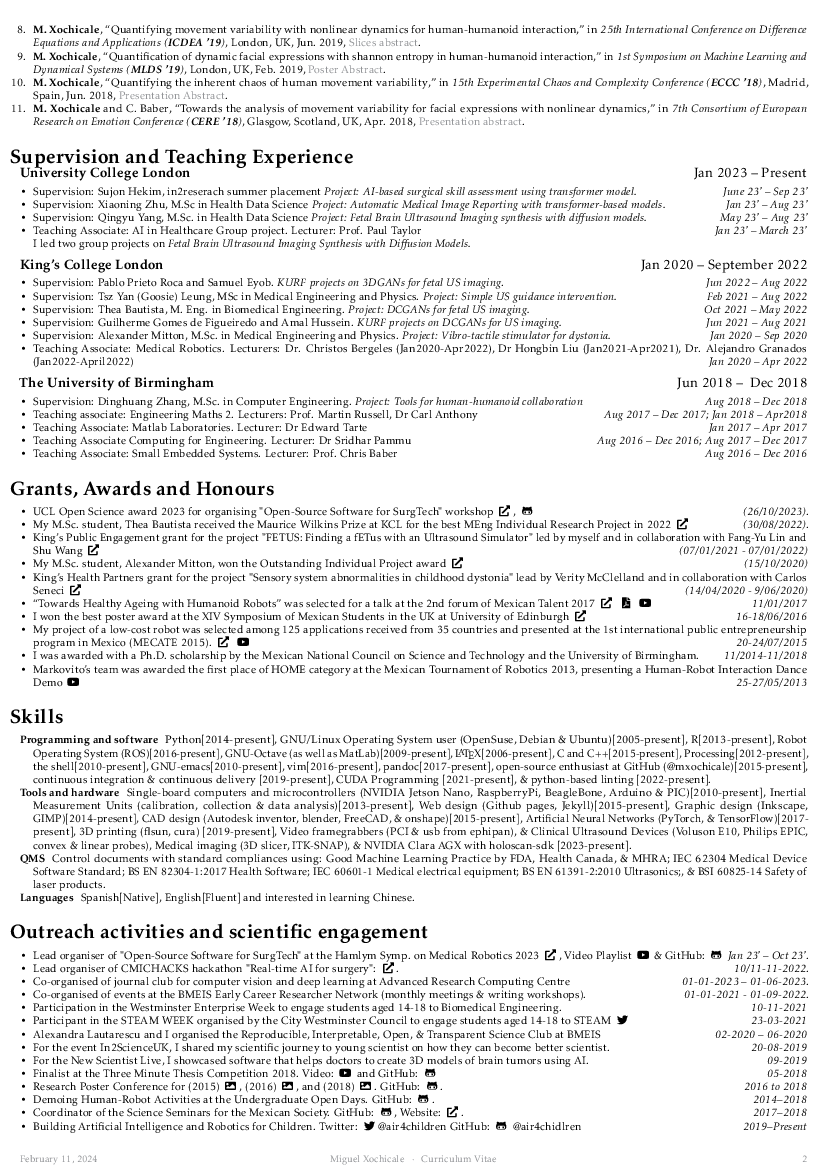
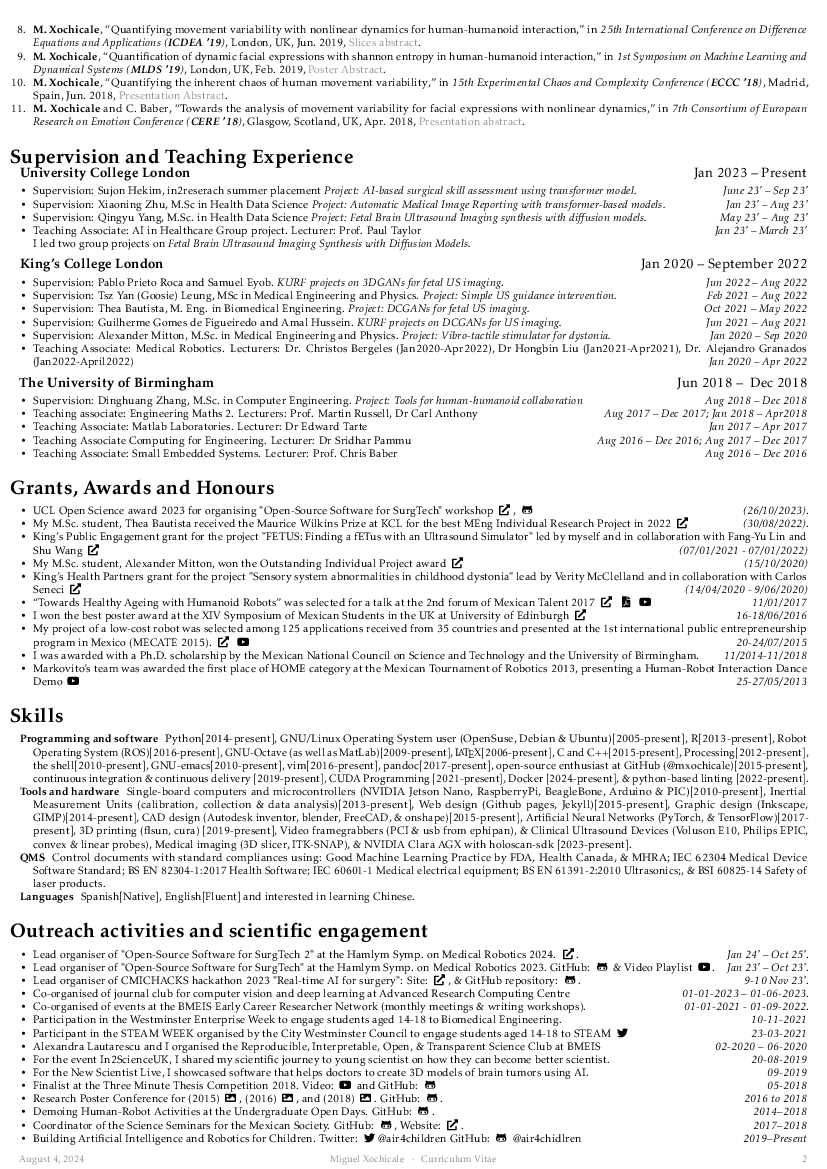
updates from promotion to senior research engineer (aug2024); closes #37

diff --git a/tex/cv-two-pages.tex b/tex/cv-two-pages.tex
@@ -2,12 +2,12 @@
 
 \name{Miguel Xochicale}
 \researchinterest{
-\\ My research interests are advancing AI tools for Medical Imaging, MedTech, SurgTech, Biomechanics and Clinical Translation.
+\\ My research interests focus on advancing real-time AI tools for MedTech, SurgTech, biomechanics, and clinical translation.
 }
 
 \address{
-Research Engineer, advancing real-time AI-enabled Surgical tools\\
-Advanced Research Computing Centre and WEISS \\
+Senior Research Engineer\\
+Advanced Research Computing Centre \\
 University College London, UK
 }
 \homepage{http://mxochicale.github.io}
@@ -62,14 +62,14 @@ University College London, UK
 
 %%%%%%%%%%%%%%%%%%%%%%%%%%%%%%%%%%%%%%%%%%%%%%
 \section{Research Experience}
-\subsection{Research Engineer at University College London, UK}[Oct 2022~--~Present]
+\subsection{Senior Research Engineer at University College London, UK}[Oct 2022~--~Present]
 \begin{itemize}
-  \item Collaborators: \href{https://scholar.google.co.uk/citations?user=-rD4cJIAAAAJ}{Stephen Thompson} and \href{https://iris.ucl.ac.uk/iris/browse/profile?upi=MJCLA42}{Prof Matt Clarkson}
   \item 
-I am advancing AI-enabled Surgical Navigation tools via GitHub.
+I am advancing real-time AI-enabled surgical tools by developing end-to-end frameworks, including training, inference, API design, and deployment to medical devices \href{https://mxochicale.github.io/real-time-ai-for-surgery-with-NVIDIA-Holoscan-platform/#/section}{\faExternalLink*}.
+Additionally, I contribute to elevating the highest standards of code quality in UCL's open-source software projects (\href{https://github.com/UCLH-Foundry/PIXL}{PIXL \faGithub*} \& \href{https://github.com/SciKit-Surgery}{SciKit-Surgery \faGithub*}).
+  %\item Collaborators: \href{https://scholar.google.co.uk/citations?user=-rD4cJIAAAAJ}{Stephen Thompson} and \href{https://iris.ucl.ac.uk/iris/browse/profile?upi=MJCLA42}{Prof Matt Clarkson}
 %Additionally, I am leading the preparation of one proceeding and one manuscript in the area of medical imaging with real-time deep learning techniques.
 %All previous activities in collaboration with renowned clinicians and engineers in KCL, University of Oxford and University of Melbourne. 
-See more at \href{https://github.com/SciKit-Surgery}{(\faExternalLink*)}.
 \end{itemize}
 
 
@@ -365,7 +365,8 @@ vim[2016-present],
 pandoc[2017-present],
 open-source enthusiast at GitHub (\href{https://github.com/mxochicale}{@mxochicale})[2015-present], 
 continuous integration \& continuous delivery [2019-present], 
-CUDA Programming [2021-present], \&
+CUDA Programming [2021-present], 
+Docker [2024-present], \&
 python-based linting [2022-present].
 
 \item[Tools and hardware] 
@@ -403,15 +404,19 @@ BSI 60825-14 Safety of laser products.
 %  \entry{Outreach activities and scientific engagement}{Sep 2019~--~Present}
 %\end{positions}
 \begin{itemize}
-\item Lead organiser of "Open-Source Software for SurgTech" at the Hamlym Symp. on Medical Robotics 2023
-	\href{https://www.hamlynsymposium.org/events/open-source-software-for-surgical-technologies/}{\faExternalLink*}, 
-	Video Playlist \href{https://youtube.com/playlist?list=PLtGJkyfu0klZlvZkPyDLArhjs7i39C-ld&si=wmOQZ2Qr5_QDWrg3}{\faYoutube} \& 
-	GitHub: \href{https://github.com/oss-for-surgtech/workshop-hamlyn2023}{\faGithub*} 
+\item Lead organiser of "Open-Source Software for SurgTech 2" at the Hamlym Symp. on Medical Robotics 2024.
+	\href{https://www.hamlynsymposium.org/events/open-source-software-for-surgical-technologies-2/}{\faExternalLink*}.
+	\printdate{Jan 24' -- Oct 25'}.
+
+\item Lead organiser of "Open-Source Software for SurgTech" at the Hamlym Symp. on Medical Robotics 2023. 
+	GitHub: \href{https://github.com/oss-for-surgtech/workshop-hamlyn2023}{\faGithub*} \&
+    Video Playlist \href{https://youtube.com/playlist?list=PLtGJkyfu0klZlvZkPyDLArhjs7i39C-ld&si=wmOQZ2Qr5_QDWrg3}{\faYoutube}.
 	\printdate{Jan 23' -- Oct 23'}.
 
-\item Lead organiser of CMICHACKS hackathon "Real-time AI for surgery": 
-	\href{https://cmic-ucl.github.io/CMICHACKS//}{\faExternalLink*}. 
-	\printdate{10/11-11-2022}.
+\item Lead organiser of CMICHACKS hackathon 2023 "Real-time AI for surgery": 
+	Site: \href{https://cmic-ucl.github.io/CMICHACKS/edition2023/index.html}{\faExternalLink*}, \&
+	GitHub repository: \href{https://github.com/SciKit-Surgery/cmicHACKS2}{\faGithub*}.
+	\printdate{9-10 Nov 23'}.
 
 \item Co-organised of journal club for computer vision and deep learning at Advanced Research Computing Centre 
 	\printdate{01-01-2023 -- 01-06-2023}.

diff --git a/README.md b/README.md
@@ -1,9 +1,12 @@
-# :scroll: My Curriculum Vitae (11th February 2024)
+# :scroll: My Curriculum Vitae (August 2024)
 
 [![GitHub Actions Status](https://github.com/mxochicale/cv/workflows/CICV2P/badge.svg)](https://github.com/mxochicale/cv/actions) [![CV](https://img.shields.io/badge/read_my-CV-blue.svg)](https://github.com/mxochicale/cv/blob/generated-pdfs/cv-two-pages.pdf)
 
 My Curriculum Vitae (CV) is written in LaTeX and it is built locally in Ubuntu 22.04x64 OS with [texlive](https://github.com/mxochicale/latex/tree/master/installation) and remotely with [github action CI](https://github.com/free-cortex/framework/tree/main/workflow). 
 Refer to [README](tex/README.md) for detailed instructions on local and remote latex built. 
+
+## My CV
+Download my latest CV by clicking on the following pages.
 
 [<img src="docs/page-0.png" width="400">](https://github.com/mxochicale/cv/blob/generated-pdfs/cv-two-pages.pdf)
 [<img src="docs/page-1.png" width="400">](https://github.com/mxochicale/cv/blob/generated-pdfs/cv-two-pages.pdf)
